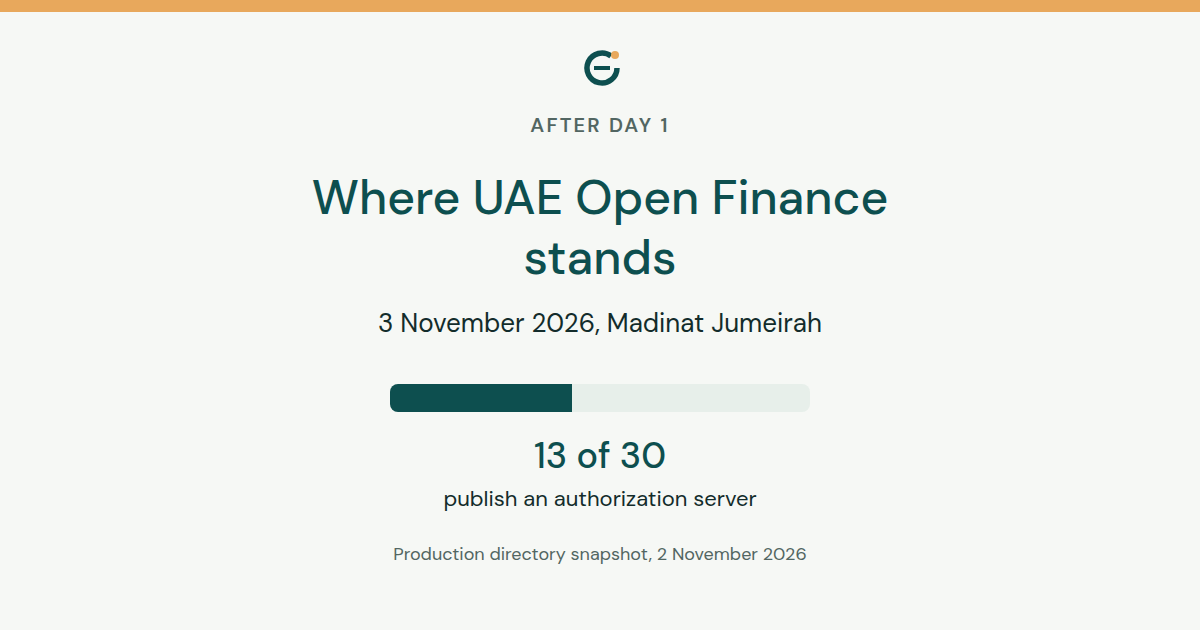
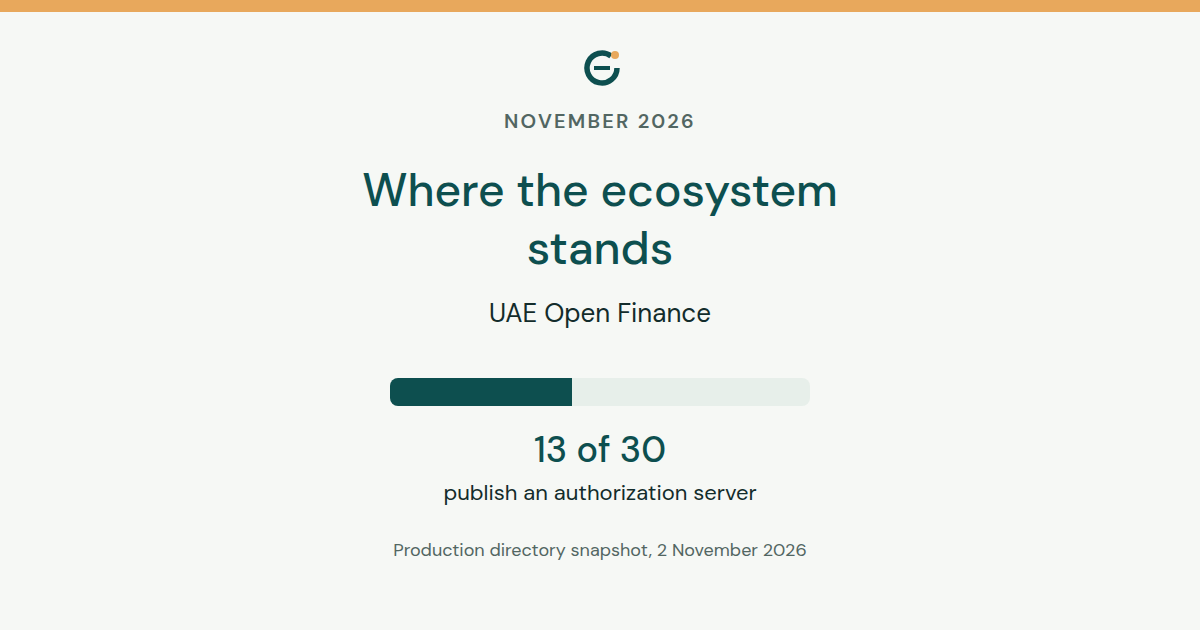
news: frame the November note around the ecosystem
Replace the Summit retrospective with a sourced reading of the directory, API versions and Ecosystem Watch.

diff --git a/src/content/news/2026-11-03-uae-open-finance-ecosystem-november-2026.md b/src/content/news/2026-11-03-uae-open-finance-ecosystem-november-2026.md
@@ -1,0 +1,144 @@
+---
+title: "UAE Open Finance: where the ecosystem stands in November 2026"
+date: 2026-11-03
+type: community
+region: uae
+author: Open Finance OS
+description: "A 3 November 2026 reading of UAE Open Finance from the public directory and Ecosystem Watch: who publishes an authorization server, which API versions are declared, and what the logs show."
+image: /news/dfs-2026/cover.svg
+imageAlt: "UAE Open Finance in November 2026. A bar shows 13 of 30 production registrations publishing an authorization server on 2 November 2026."
+imageCaption: "Production directory snapshot, 2 November 2026, 14:47 UTC. 13 of 30 registrations publish an authorization server."
+---
+
+This note is dated 3 November 2026, during Dubai FinTech Summit at Madinat Jumeirah. The picture below is the public record of UAE Open Finance.
+
+<aside class="glance" aria-label="At a glance">
+<p class="glance-label">At a glance</p>
+<ul>
+<li><strong>Directory, 2 November 2026, 14:47 UTC.</strong> 30 production registrations. 13 publish an authorization server. 17 do not.</li>
+<li><strong>LFI role.</strong> 22 of the 30 hold it. 13 of those 22 publish an authorization server.</li>
+<li><strong>API declarations, same snapshot.</strong> 51 resources: 41 on v2.1, 7 on v1.2, 3 on v2.0, none on v2.2.</li>
+<li><strong>Baseline, 28 October 2026, 12:08 UTC.</strong> 12 of 30 published an authorization server.</li>
+<li><strong>Logs.</strong> 1,416,887 API calls in full months from November 2025 through September 2026. Ecosystem Watch run 2 November 2026, source data through 25 October 2026.</li>
+</ul>
+</aside>
+
+## The directory
+
+The newest Observatory production snapshot is 2 November 2026, 14:47 UTC, from the public directory at data.directory.openfinance.ae. It lists **30** registrations. **13** publish an active authorization server with a nonempty issuer. **17** do not. That count is published metadata. Reachability, certification and traffic are separate questions. The [methodology](/observatory/methodology) is the definition.
+
+On 28 October 2026, 12:08 UTC, the same count was **12 of 30**, with **18** not publishing an issuer. That baseline is the one in [12 of 30: Why Most UAE Open Finance Registrations Don't Publish an Authorization Server](/news/2026-10-29-12-of-30-uae-open-finance-authorization-servers).
+
+<figure class="post-visual">
+<svg xmlns="http://www.w3.org/2000/svg" viewBox="0 0 720 440" width="1440" height="880" role="img" aria-labelledby="fig-eco-auth" focusable="false"><title id="fig-eco-auth">Two bars scaled from 0 to 30. On 28 October 2026 at 12:08 UTC, 12 of 30 production registrations publish an authorization server. On 2 November 2026 at 14:47 UTC, 13 of 30 do. Source: data.directory.openfinance.ae.</title>
+  <rect width="720" height="440" fill="#ffffff" />
+  <rect width="720" height="6" fill="#E8A85C" />
+  <g aria-hidden="true" font-family="DM Sans, system-ui, sans-serif">
+    <text x="40" y="48" fill="#526662" font-size="16" font-weight="600" letter-spacing="1.1">AUTHORIZATION SERVERS</text>
+    <text x="40" y="108" fill="#0D4F4F" font-size="48" font-weight="500">13 of 30</text>
+    <text x="40" y="148" fill="#132C2B" font-size="22">publish one, 2 November 2026</text>
+    <text x="40" y="206" fill="#132C2B" font-size="18">28 Oct</text>
+    <defs>
+      <clipPath id="eco-bar-oct">
+        <rect x="150" y="184" width="480" height="32" rx="8" />
+      </clipPath>
+      <clipPath id="eco-bar-nov">
+        <rect x="150" y="236" width="480" height="32" rx="8" />
+      </clipPath>
+    </defs>
+    <g clip-path="url(#eco-bar-oct)">
+      <rect x="150" y="184" width="480" height="32" fill="#E7EFEA" />
+      <rect x="150" y="184" width="192" height="32" fill="#0D4F4F" />
+    </g>
+    <text x="648" y="206" fill="#0D4F4F" font-size="18" font-weight="600">12</text>
+    <text x="40" y="258" fill="#132C2B" font-size="18">2 Nov</text>
+    <g clip-path="url(#eco-bar-nov)">
+      <rect x="150" y="236" width="480" height="32" fill="#E7EFEA" />
+      <rect x="150" y="236" width="208" height="32" fill="#0D4F4F" />
+    </g>
+    <text x="648" y="258" fill="#0D4F4F" font-size="18" font-weight="600">13</text>
+    <text x="40" y="312" fill="#526662" font-size="16">Bars run from 0 to 30. 2 November: 13 with an issuer, 17 without.</text>
+    <text x="40" y="340" fill="#526662" font-size="16">28 October: 12 with an issuer, 18 without.</text>
+    <text x="40" y="388" fill="#526662" font-size="16">Source: data.directory.openfinance.ae. Snapshots at 12:08 UTC</text>
+    <text x="40" y="416" fill="#526662" font-size="16">on 28 October and 14:47 UTC on 2 November 2026.</text>
+  </g>
+</svg>
+<figcaption>13 of 30 on 2 November 2026, 14:47 UTC. 17 do not publish an issuer. The 28 October baseline, 12:08 UTC, was 12 of 30. Public directory at data.directory.openfinance.ae.</figcaption>
+</figure>
+
+**22** of the 30 registrations hold the LFI role. All **13** that publish an authorization server are in that group, so **9** LFI registrations do not. The other **8** registrations do not hold LFI and do not publish an authorization server. **25** of the 30 hold more than one directory role, so role counts are not a headcount of institutions. The snapshot's legacy TPP count is 0. That field is not a count of third-party providers.
+
+Two dated registry changes sit behind the move from 12 to 13:
+
+- **27 October 2026, 11:37 UTC.** Al Buharia National Insurance Co joins the production directory as an LFI, with no authorization server and no API family. Registrations go from 29 to 30. The authorization-server count stays 12.
+- **29 October 2026, 12:18 UTC.** Standard Chartered first publishes an authorization server. It still has no API family on 2 November. The count becomes 13 of 30.
+
+A [22 October 2026 item on this site](/news/2026-10-22-open-finance-arrives-on-the-nbf-direct-app-with-mu), sourced from fintechnews.ae, reports that the NBF Direct app added an open-finance feature and began rolling the changes out in September 2026. In the 2 November snapshot, NBF publishes an authorization server and an accounts family.
+
+UAE Open Finance is supervised by the Central Bank of the UAE. Banking and insurance services go through a central API Hub. The Hub is the OIDC/FAPI authorization server and token issuer. The [FAQ](/learn/faq) separates the CBUAE, the Al Tareq brand and Nebras, which operates the Hub.
+
+## What the APIs declare
+
+The same 2 November snapshot lists **51** API resource declarations. **41** are v2.1, **7** are v1.2, **3** are v2.0, and **none** are v2.2. All 51 are marked Self-Certified. By family, the declarations are accounts 14, payments 12, confirmation of payee 11, products 10, insurance 2 and ATM 2.
+
+<figure class="post-visual">
+<svg xmlns="http://www.w3.org/2000/svg" viewBox="0 0 720 420" width="1440" height="840" role="img" aria-labelledby="fig-eco-versions" focusable="false"><title id="fig-eco-versions">Bar chart of 51 production API resource declarations on 2 November 2026. v2.1 has 41, v1.2 has 7, v2.0 has 3, and v2.2 has 0. Bars are scaled from 0 to 51. Source: data.directory.openfinance.ae.</title>
+  <rect width="720" height="420" fill="#ffffff" />
+  <rect width="720" height="6" fill="#E8A85C" />
+  <g aria-hidden="true" font-family="DM Sans, system-ui, sans-serif">
+    <text x="40" y="44" fill="#526662" font-size="16" font-weight="600" letter-spacing="1.1">API VERSIONS</text>
+    <text x="40" y="92" fill="#0D4F4F" font-size="36" font-weight="500">51 declarations</text>
+    <text x="40" y="124" fill="#132C2B" font-size="18">Production directory, 2 November 2026, 14:47 UTC</text>
+    <text x="40" y="176" fill="#132C2B" font-size="18" font-weight="600">v2.1</text>
+    <rect x="120" y="156" width="510" height="28" rx="8" fill="#E7EFEA" />
+    <rect x="120" y="156" width="410" height="28" rx="8" fill="#0D4F4F" />
+    <text x="648" y="176" fill="#0D4F4F" font-size="18" font-weight="600">41</text>
+    <text x="40" y="228" fill="#132C2B" font-size="18" font-weight="600">v1.2</text>
+    <rect x="120" y="208" width="510" height="28" rx="8" fill="#E7EFEA" />
+    <rect x="120" y="208" width="70" height="28" rx="8" fill="#0D4F4F" />
+    <text x="648" y="228" fill="#0D4F4F" font-size="18" font-weight="600">7</text>
+    <text x="40" y="280" fill="#132C2B" font-size="18" font-weight="600">v2.0</text>
+    <rect x="120" y="260" width="510" height="28" rx="8" fill="#E7EFEA" />
+    <rect x="120" y="260" width="30" height="28" rx="8" fill="#0D4F4F" />
+    <text x="648" y="280" fill="#0D4F4F" font-size="18" font-weight="600">3</text>
+    <text x="40" y="332" fill="#132C2B" font-size="18" font-weight="600">v2.2</text>
+    <rect x="120" y="312" width="510" height="28" rx="8" fill="#F6F8F5" stroke="#E8A85C" stroke-width="2" />
+    <text x="648" y="332" fill="#0D4F4F" font-size="18" font-weight="600">0</text>
+    <text x="40" y="376" fill="#526662" font-size="16">Bars run from 0 to 51. Source: data.directory.openfinance.ae.</text>
+    <text x="40" y="402" fill="#526662" font-size="16">All 51 declarations are Self-Certified in this snapshot.</text>
+  </g>
+</svg>
+<figcaption>API resource declarations by version, production directory, 2 November 2026, 14:47 UTC. 41 on v2.1, 7 on v1.2, 3 on v2.0, none on v2.2.</figcaption>
+</figure>
+
+## What the logs show
+
+[Ecosystem Watch](/observatory/watch/) reads the public Al Tareq platform logs. The newest run in the repo is 2 November 2026. Its source data runs through 25 October 2026. Full months are November 2025 through September 2026. October is still a partial month, so the rates below use full months only.
+
+- **1,416,887** API calls across those full months.
+- **September 2026** is the busiest full month, at **405,147** calls, recorded in the Watch as **31.8%** above the previous full month.
+- **18.4%** of full-month API calls returned a 4xx or 5xx response.
+- **95.3%** of full-month payment instructions were accepted. Acceptance is not final settlement.
+- **16** distinct LFI log keys had calls in the full months, including error-only keys and bank segments. That is not a count of licensed institutions.
+- **17** distinct non-empty TPP names had calls in those full months. The Watch does not treat that as a licensing count.
+- Of full-month calls, the Watch records **51.0%** on v2.1, **36.1%** on v1.2 and **13.0%** on v2.0. Those shares round to 100.1.
+
+The directory and the logs answer different questions. A published authorization server is metadata. A log key is observed traffic.
+
+## What to watch next
+
+The [2 November note on V2.2](/news/2026-11-02-uae-open-finance-v2-2-deadline) cites the Nebras roadmap, version 3.0, published 25 March 2026: Tier-1 banks and Tier-1 insurers have an LFI release deadline of **31 December 2026**. The Ecosystem Watch run of 2 November records **0 of 8** Tier-1 banks and **0 of 16** Tier-1 insurers with V2.2 registered. The 2 November directory snapshot agrees on the declarations: **0 of 51** are v2.2. The same note says the final text is still a release candidate and its publication date is TBC.
+
+Three directory facts are still open in the 2 November snapshot:
+
+1. **9** LFI registrations do not publish an authorization server.
+2. Standard Chartered publishes an authorization server and no API family.
+3. Al Buharia National Insurance Co is on the directory, as of 27 October, with neither an authorization server nor an API family.
+
+October's logs are not a full month yet. The 2 November Watch run counts **552,359** API calls in October through 25 October. The next full-month comparison is against September's 405,147.
+
+## Stay in touch
+
+- **Subscribe to the newsletter** at [openfinance-os.org/newsletter](/newsletter).
+- **Join the community Slack** with [this invite link](https://join.slack.com/t/openfinance-os/shared_invite/zt-4f6yrsi0w-qPd32ve~7Czekf0BWJRgLQ).
+- **Read issue #1**, [UAE Open Finance: why 12 of 30 registrations publish an auth server](/newsletter/archive/uae-open-finance-why-12-of-30-registrations).
